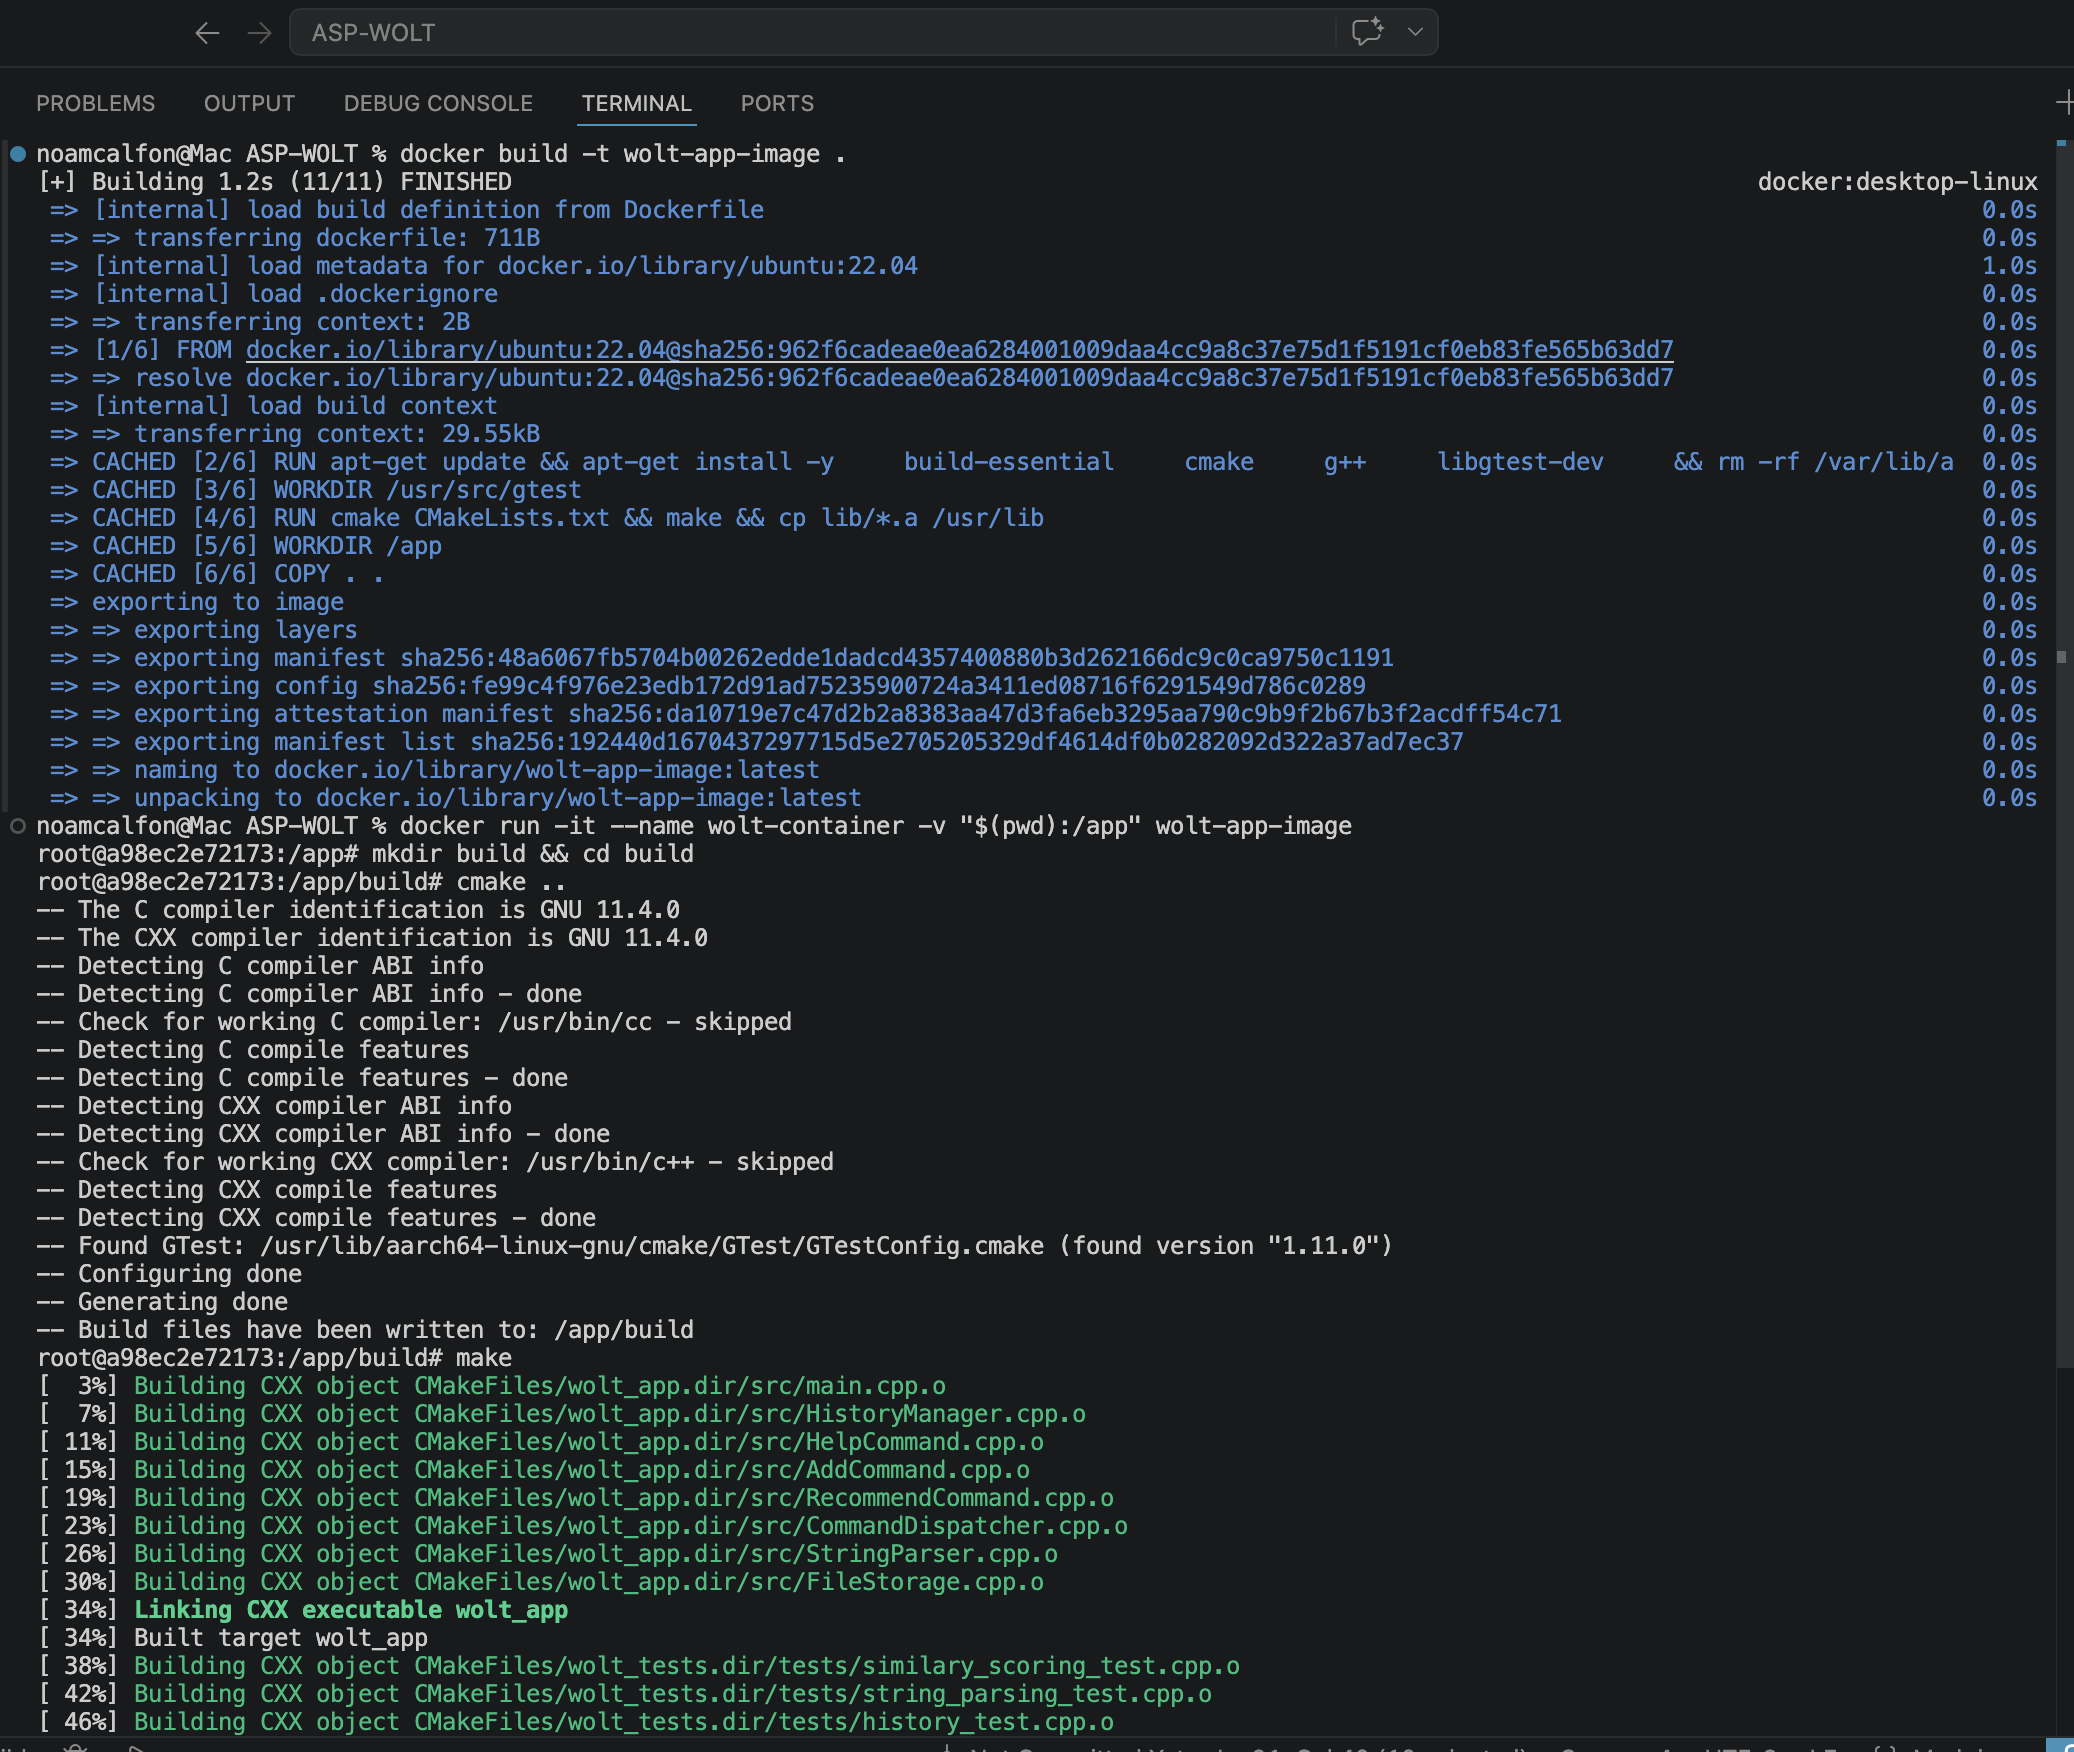
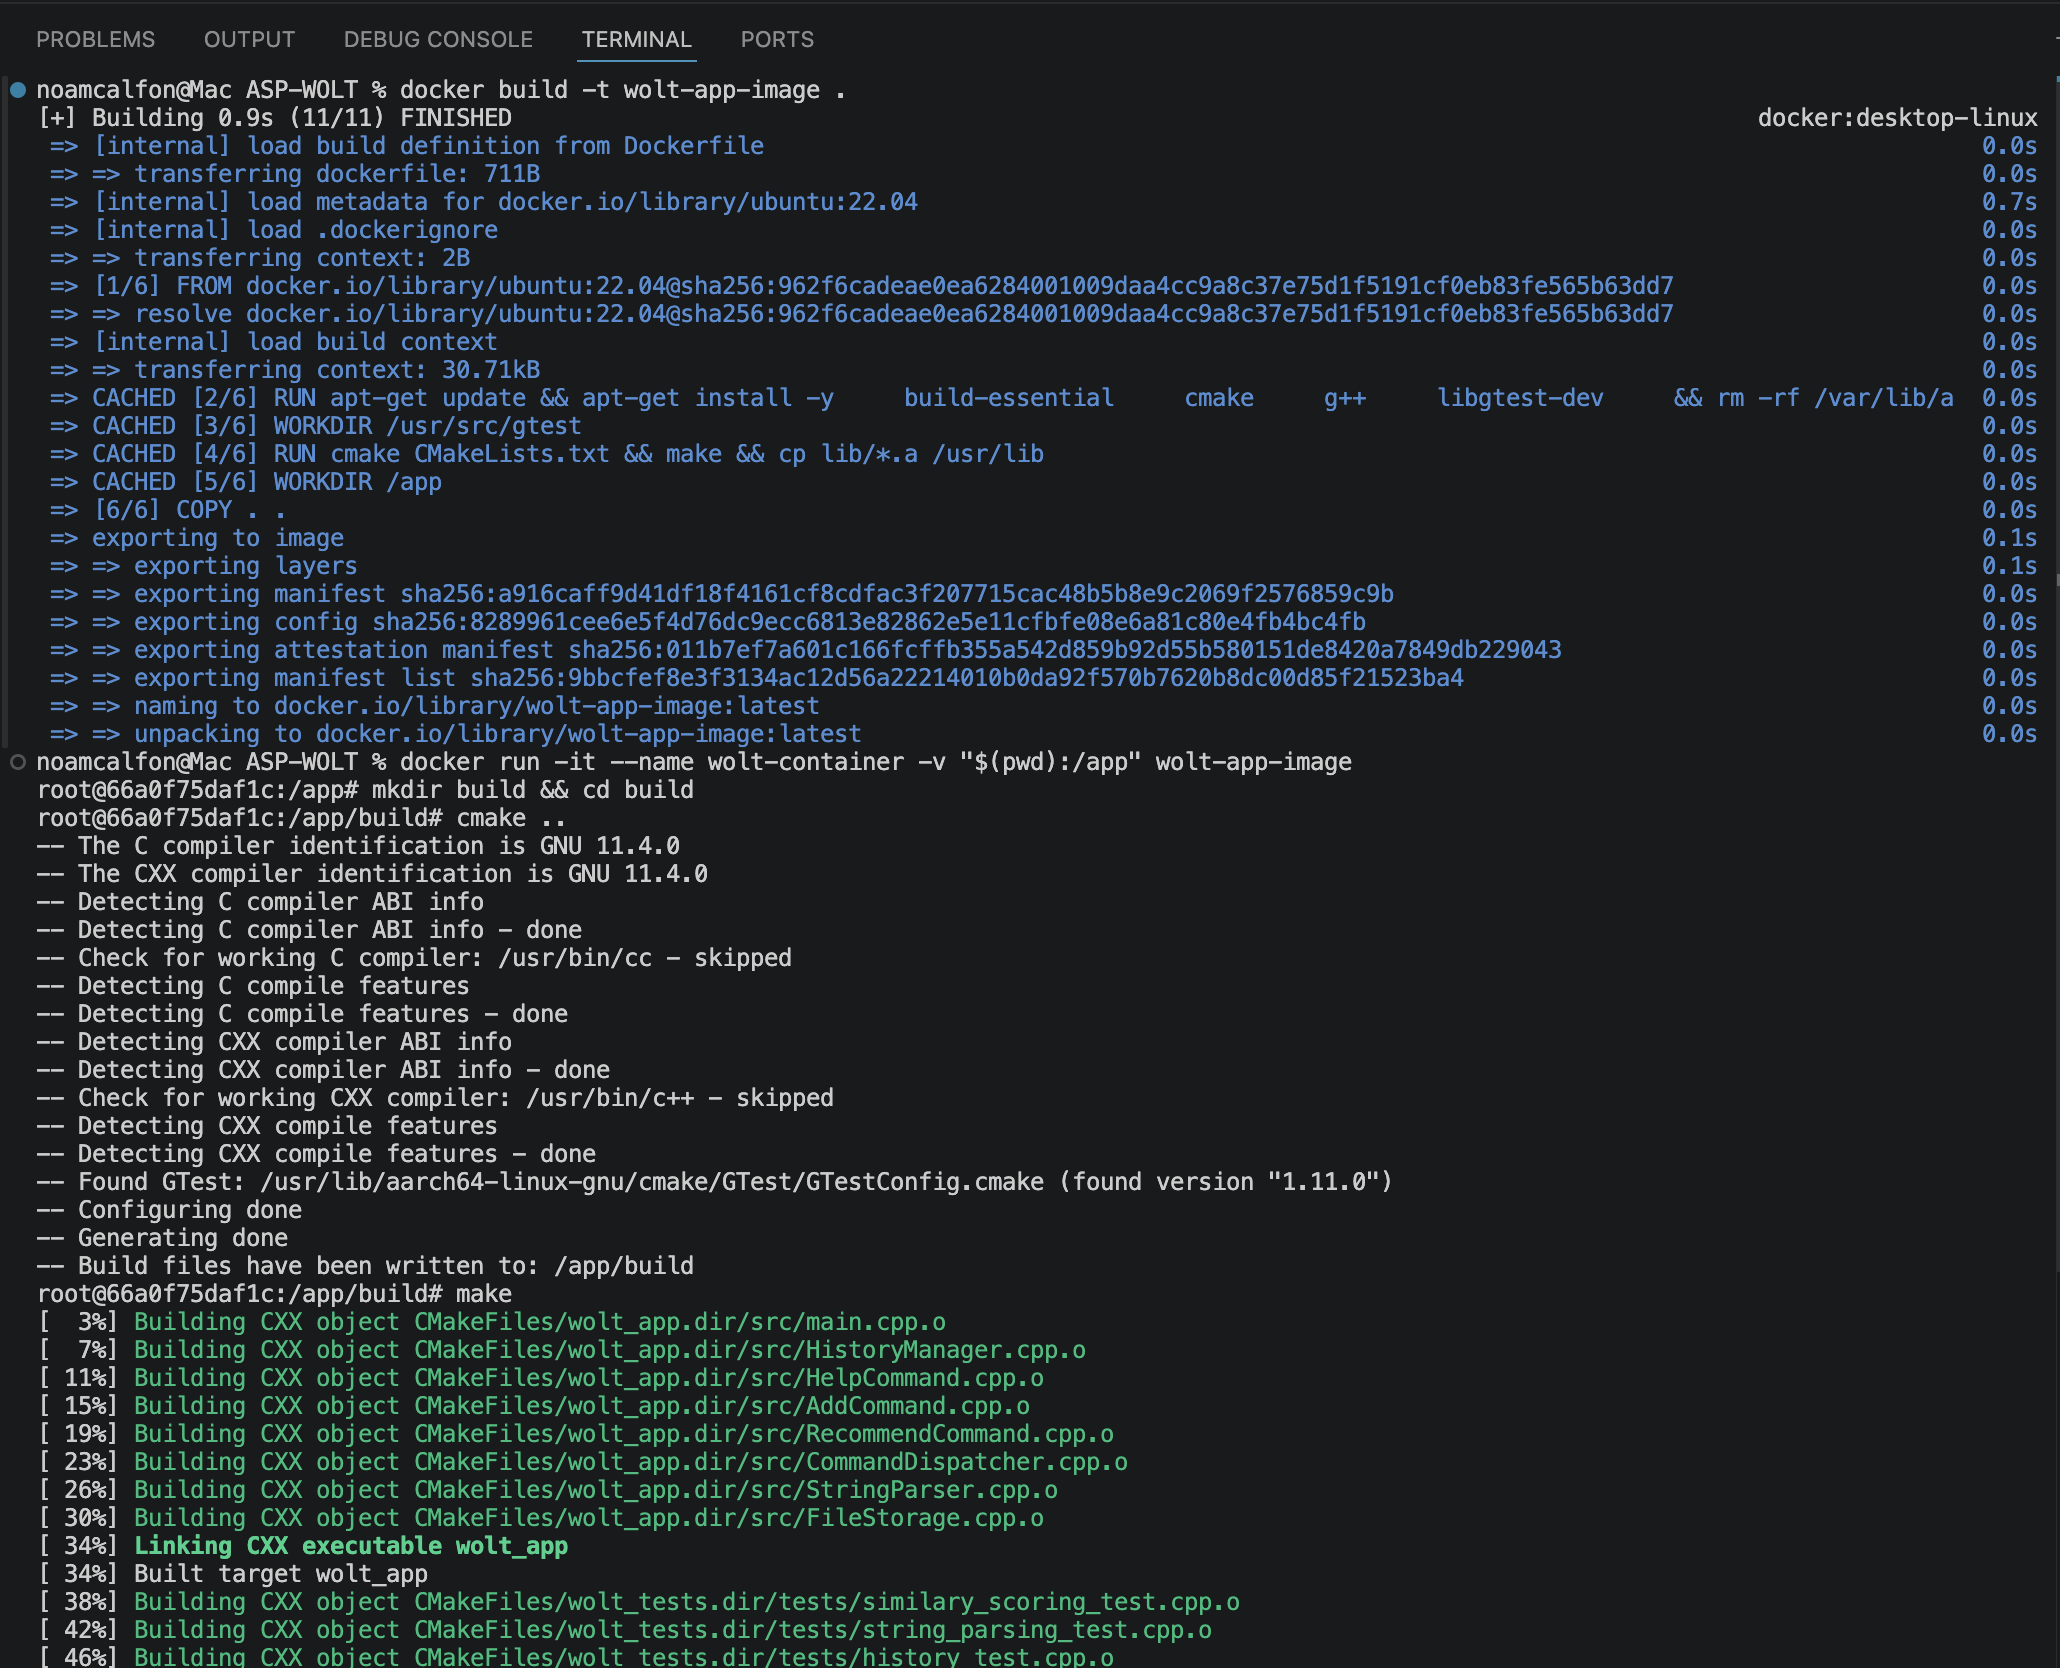
WOLT-45: finalized README

diff --git a/README.md b/README.md
@@ -18,7 +18,8 @@ Installation & Build:
 5.Create and enter "build" repository: [use command: mkdir build && cd build]
 6.Run Cmake: [use command: cmake ..]
 7.Compile with make: [use command: make]
-8.Run the app: [use command: ./wolt_app]
+8.Enter app repository: [use command: cd /app]
+9.Run the app: [use command: ./build/wolt_app]
 
 ![Installation & Build - 1](./images/loading1.png)
 ![Installation & Build - 2](./images/loading2.png)
